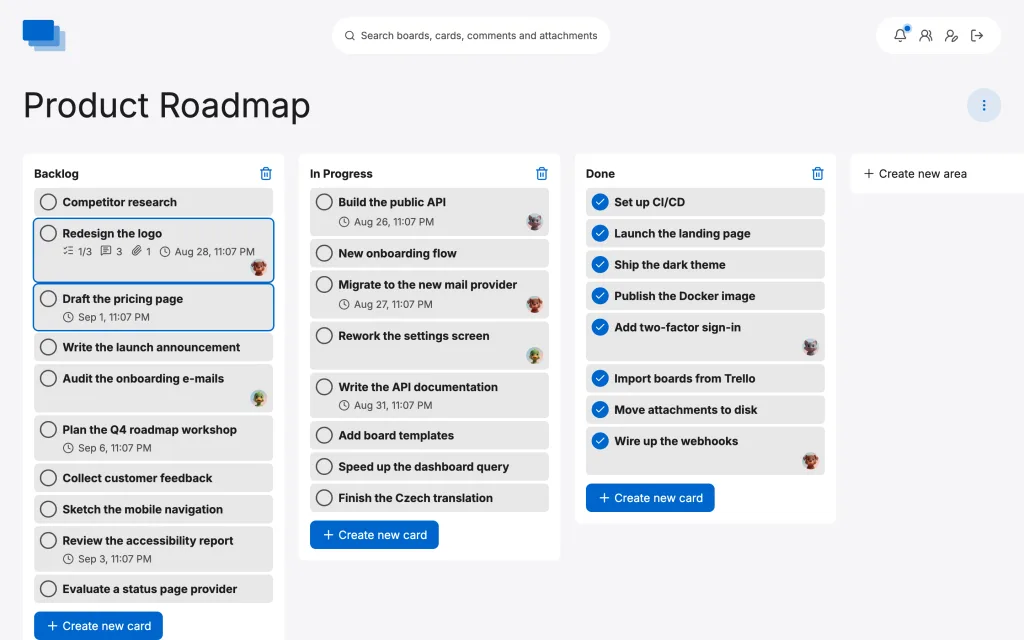
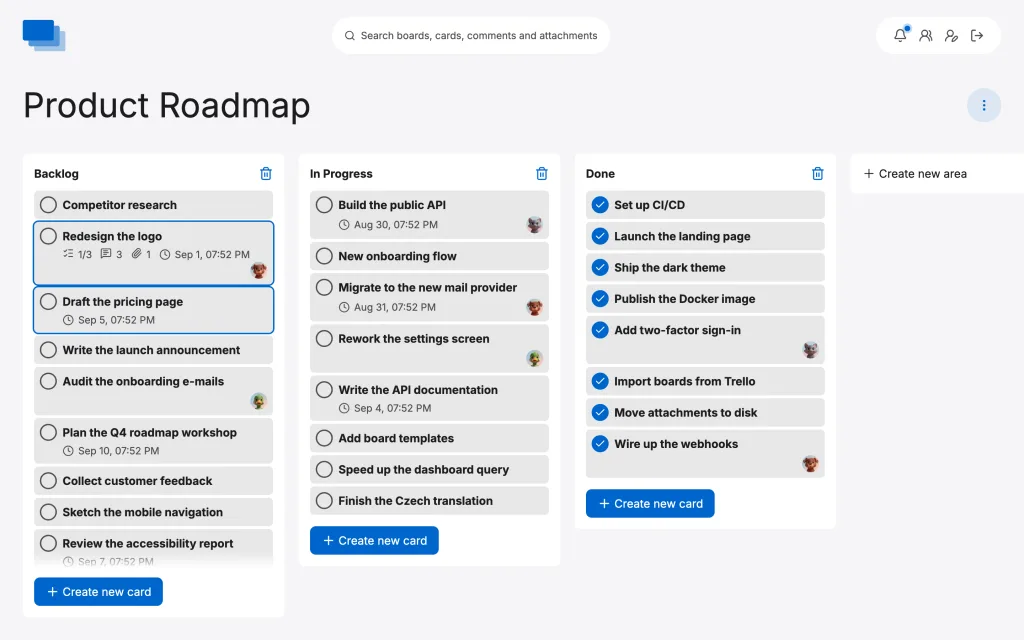
Areas sit tighter again around its content, Docs now have a changelog page

diff --git a/docs/app/pages/changelog.vue b/docs/app/pages/changelog.vue
@@ -1,0 +1,75 @@
+<template>
+  <div>
+    <AppHeader />
+    <!-- The documentation's layout, to the letter. This is a page of the same
+         manual and was the only one standing on its own without the sidebar
+         beside it. -->
+    <main role="main" class="container pt-30 pb-16 sm:pb-24">
+      <div class="flex flex-col gap-10 md:flex-row md:gap-12 md:items-start">
+        <DocsNav />
+        <ContentWrapper>
+          <h1 class="text-dark mb-6 text-4xl sm:text-5xl">Changelog</h1>
+          <p class="text-gray mb-10">
+            Every release of LokalBoards, newest first. This is the repository's
+            own <code>CHANGELOG.md</code> — the same file the source ships with,
+            rendered here rather than copied, so the two cannot drift apart.
+          </p>
+          <ContentRenderer
+            v-if="doc"
+            :value="doc"
+            class="wysiwyg-wrapper changelog-copy"
+          />
+        </ContentWrapper>
+      </div>
+    </main>
+  </div>
+</template>
+
+<script setup lang="ts">
+// The sidebar's menus, awaited here so they are in the server-rendered HTML
+// rather than appearing after hydration — the same as the documentation pages.
+const { ready } = useDocsNavigation();
+await ready;
+
+const { data: raw } = await useAsyncData("changelog", () =>
+  queryCollection("changelog").first(),
+);
+
+// An entry in the changelog is several paragraphs under one bullet, and the
+// parser flattens those into a single run of text with `br` between them — the
+// tree that comes back holds `["br", {}]`, not two paragraphs. No CSS can undo
+// that: a browser ignores every box property on a `<br>`, so there is nothing to
+// put the space back with. Splitting the list item's children on those breaks
+// and wrapping each run in a paragraph restores what the Markdown said, before
+// any of it is rendered, so the server sends it correctly too.
+const asParagraphs = (node: any): any => {
+  if (!Array.isArray(node)) return node;
+  const [tag, props, ...children] = node;
+  const walked = children.map(asParagraphs);
+  if (tag !== "li") return [tag, props, ...walked];
+
+  const runs: any[][] = [[]];
+  for (const child of walked) {
+    if (Array.isArray(child) && child[0] === "br") runs.push([]);
+    else runs[runs.length - 1]!.push(child);
+  }
+  const kept = runs.filter((run) => run.length);
+  if (kept.length < 2) return [tag, props, ...walked];
+  return [tag, props, ...kept.map((run) => ["p", {}, ...run])];
+};
+
+const doc = computed(() => {
+  const value = raw.value as any;
+  if (!value?.body?.value) return value;
+  return {
+    ...value,
+    body: { ...value.body, value: value.body.value.map(asParagraphs) },
+  };
+});
+
+usePageMeta({
+  title: "Changelog",
+  description:
+    "Every release of LokalBoards, with what changed in each and why.",
+});
+</script>

diff --git a/docs/app/components/SideNav.vue b/docs/app/components/SideNav.vue
@@ -8,11 +8,20 @@
   >
     <div v-for="(section, index) in sections" :key="section.title">
       <p class="text-dark font-medium" :class="index ? 'mt-8' : ''">
-        <NuxtLink :to="section.to" class="hover:text-primary">{{
-          section.title
-        }}</NuxtLink>
+        <NuxtLink
+          :to="section.to"
+          class="hover:text-primary"
+          :class="{ 'text-primary': isCurrent(section.to) }"
+          >{{ section.title }}</NuxtLink
+        >
       </p>
-      <ul class="border-gray/15 mt-3 flex flex-col gap-y-2 border-l pl-4">
+      <!-- A section with nothing under it is a page, not a menu — the heading
+           is already its link, and an empty bordered list below it reads as
+           something that failed to load. -->
+      <ul
+        v-if="section.items.length"
+        class="border-gray/15 mt-3 flex flex-col gap-y-2 border-l pl-4"
+      >
         <li v-for="item in section.items" :key="item.path">
           <NuxtLink
             :to="item.path"

diff --git a/docs/app/composables/useDocsNavigation.ts b/docs/app/composables/useDocsNavigation.ts
@@ -27,6 +27,13 @@ export const useDocsNavigation = () => {
       to: "/api",
       items: api.data.value?.[0]?.children ?? [],
     },
+    // A page rather than a menu: it has no children, and the sidebar renders it
+    // as a heading that is its own link.
+    {
+      title: "Changelog",
+      to: "/changelog",
+      items: [],
+    },
   ]);
 
   // The content paths and the router's disagree about trailing slashes, so they
@@ -36,7 +43,9 @@ export const useDocsNavigation = () => {
 
   // Whether this page is one of the documented ones — which is what decides
   // whether the small-screen menu carries these sections at all.
-  const inDocs = computed(() => /^\/(docs|api)(\/|$)/.test(route.path));
+  const inDocs = computed(() =>
+    /^\/(docs|api|changelog)(\/|$)/.test(route.path),
+  );
 
   // Await this in the caller so the menus are in the server-rendered HTML
   // rather than appearing after hydration.

diff --git a/docs/content.config.ts b/docs/content.config.ts
@@ -14,5 +14,18 @@ export default defineContentConfig({
       type: "page",
       source: "api/*.md",
     }),
+    // The changelog is not written for this site — it is the repository's own
+    // CHANGELOG.md, reached through a symlink in `content/` so the page and the
+    // file cannot disagree.
+    //
+    // Pointing the collection's `cwd` at the repository root instead looks
+    // tidier and is a trap: the watcher then walks everything above this
+    // directory — node_modules, .output, the screenshot folders — and the dev
+    // server dies with EMFILE, too many open files. The link keeps the watcher
+    // inside `content/` where it belongs.
+    changelog: defineCollection({
+      type: "page",
+      source: "changelog.md",
+    }),
   },
 });

diff --git a/docs/app/assets/css/main.css b/docs/app/assets/css/main.css
@@ -2531,3 +2531,24 @@ html.menu-open {
     opacity: 1;
   }
 }
+
+/* The changelog page renders the repository's CHANGELOG.md as it is. Two things
+   that file needs and the guides do not:
+
+   The page splits an entry's paragraphs back apart before rendering — the
+   parser hands them over as one run of text with `br` between them — so they
+   arrive here as real paragraphs and only need spacing between them.
+
+   And the page has no sidebar beside it, so without a measure the entries run
+   the full width of the window — these are paragraphs, not reference tables. */
+.changelog-copy li p + p {
+  margin-top: 0.75rem;
+}
+
+.changelog-copy {
+  max-width: 68ch;
+}
+
+.changelog-copy li {
+  margin-bottom: 1.5rem;
+}

diff --git a/app/pages/board/[id].vue b/app/pages/board/[id].vue
@@ -136,7 +136,7 @@
                     <div
                         v-for="(area, areaIndex) in areas"
                         :key="area.id"
-                        class="p-4 space-y-2 rounded-lg bg-white dark:bg-slate"
+                        class="p-4 space-y-1 rounded-lg bg-white dark:bg-slate"
                         :class="{
                             'flex max-h-full min-h-0 w-92 max-w-[calc(100cqw-4rem)] shrink-0 grow-0 flex-col':
                                 boardStyle == 'kanban',

diff --git a/docs/app/components/AppFooter.vue b/docs/app/components/AppFooter.vue
@@ -90,6 +90,7 @@ const columns = [
     links: [
       { label: "Documentation", to: "/docs" },
       { label: "API reference", to: "/api" },
+      { label: "Changelog", to: "/changelog" },
       { label: "Source code", href: "https://github.com/florian-strasser/LokalBoards" },
       { label: "Releases", href: "https://github.com/florian-strasser/LokalBoards/releases" },
     ],

diff --git a/docs/app/components/AppHeader.vue b/docs/app/components/AppHeader.vue
@@ -210,6 +210,7 @@ const links = [
   // "API reference" matched nothing, so the row opened onto an empty list.
   { label: "Docs", to: "/docs", section: "Documentation" },
   { label: "API", to: "/api", section: "API reference" },
+  { label: "Changelog", to: "/changelog" },
 ];
 
 // The repository rather than a mailbox. Nothing is sold here any more, so the

diff --git a/CHANGELOG.md b/CHANGELOG.md
@@ -1,3 +1,21 @@
+## v0.32.1
+
+### Improvements
+
+- **An area sits tighter around its contents.** The list of cards carries a few pixels of padding of its own — room for the unread marker, which is drawn just outside a card and would otherwise be clipped by the edge of a scrolling list — and that padding was adding to the spacing the column already had between its header, its cards and the button that adds one. Doubled up, it read as a gap rather than as breathing room, most obviously in an empty area, where the two were all there was between the name and the button. The column's own spacing is halved to compensate; the distance between the last card and the button is unchanged.
+
+### Documentation
+
+- **The changelog is a page on the website.** `/changelog` renders this file — the repository's own `CHANGELOG.md`, reached through a link rather than copied into the site, so the page and the file cannot drift apart. It sits in the documentation's own layout, with the same sidebar beside it and an entry of its own in that sidebar, and is linked from the header and the footer beside the documentation and the API reference.
+
+  It is linked into the site's own content directory rather than the collection being pointed up at the repository root. Pointing it up there is tidier to write and sets the file watcher walking everything above the site — `node_modules`, build output, the screenshot folders — which takes the development server down with `EMFILE: too many open files`.
+
+  Two things had to be handled to make it read properly. An entry here is several paragraphs under one bullet, and the parser flattens those into a single run of text with line breaks between them — the tree it produces holds a `br`, not two paragraphs, and no styling can undo that, because a browser ignores every box property on a `<br>`. The page splits those runs back into paragraphs before anything is rendered, so the server sends it correctly too. The entries are also given a reading measure, so a paragraph does not run the full width of the column.
+
+- **Every screenshot retaken.** The guide's fifteen, the README's, and the homepage's heroes in each of their widths — all from one demo run, so they are the same build on the same day rather than a patchwork of whenever each was last touched. What is different in them is everything the last two releases changed about a board: areas that stop at the bottom of the window and scroll their own cards, the button that adds one staying put below the list, the cards fading out at the edges instead of being cut in half, and the unread marker no longer shaved off against the side of its area.
+
+  Three came out byte-identical — creating a board, the tile menu on the dashboard, and the user list. The demo data is fixed, so a view with nothing dated in it and no layout change reproduces exactly; that they did not move is the pipeline being repeatable rather than a step being skipped.
+
 ## v0.32.0
 
 ### Improvements

diff --git a/docs/content/changelog.md b/docs/content/changelog.md
@@ -1,0 +1,1 @@
+../../CHANGELOG.md
